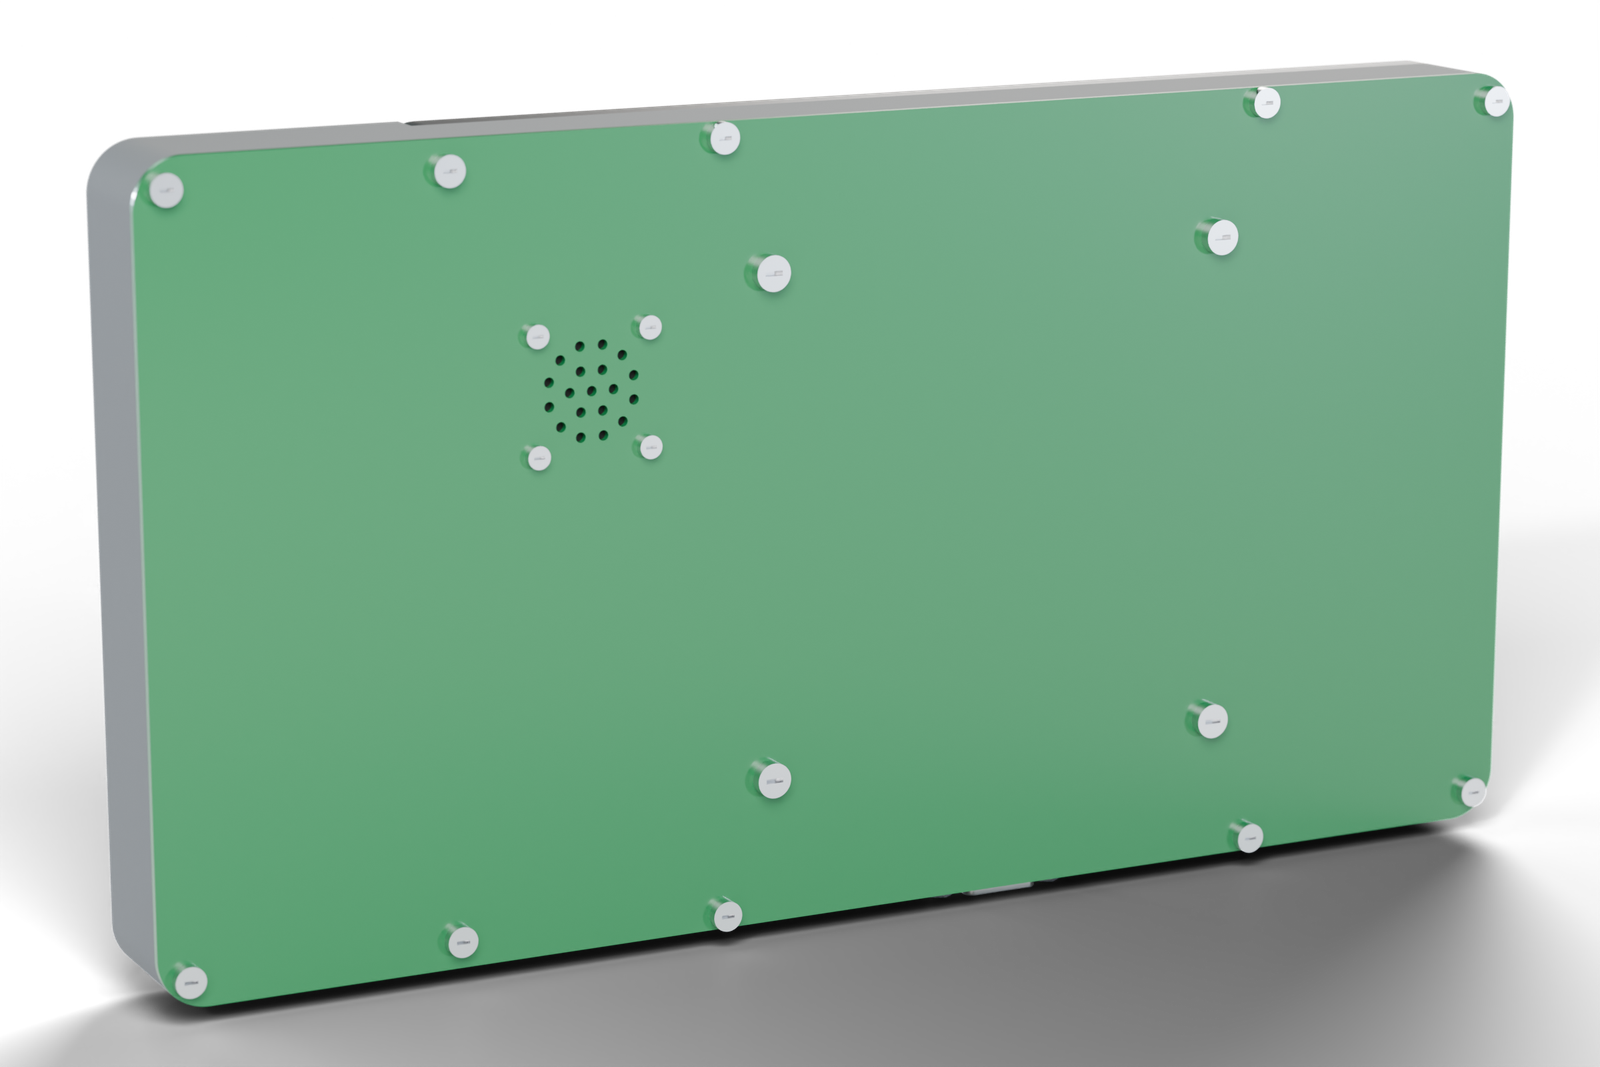
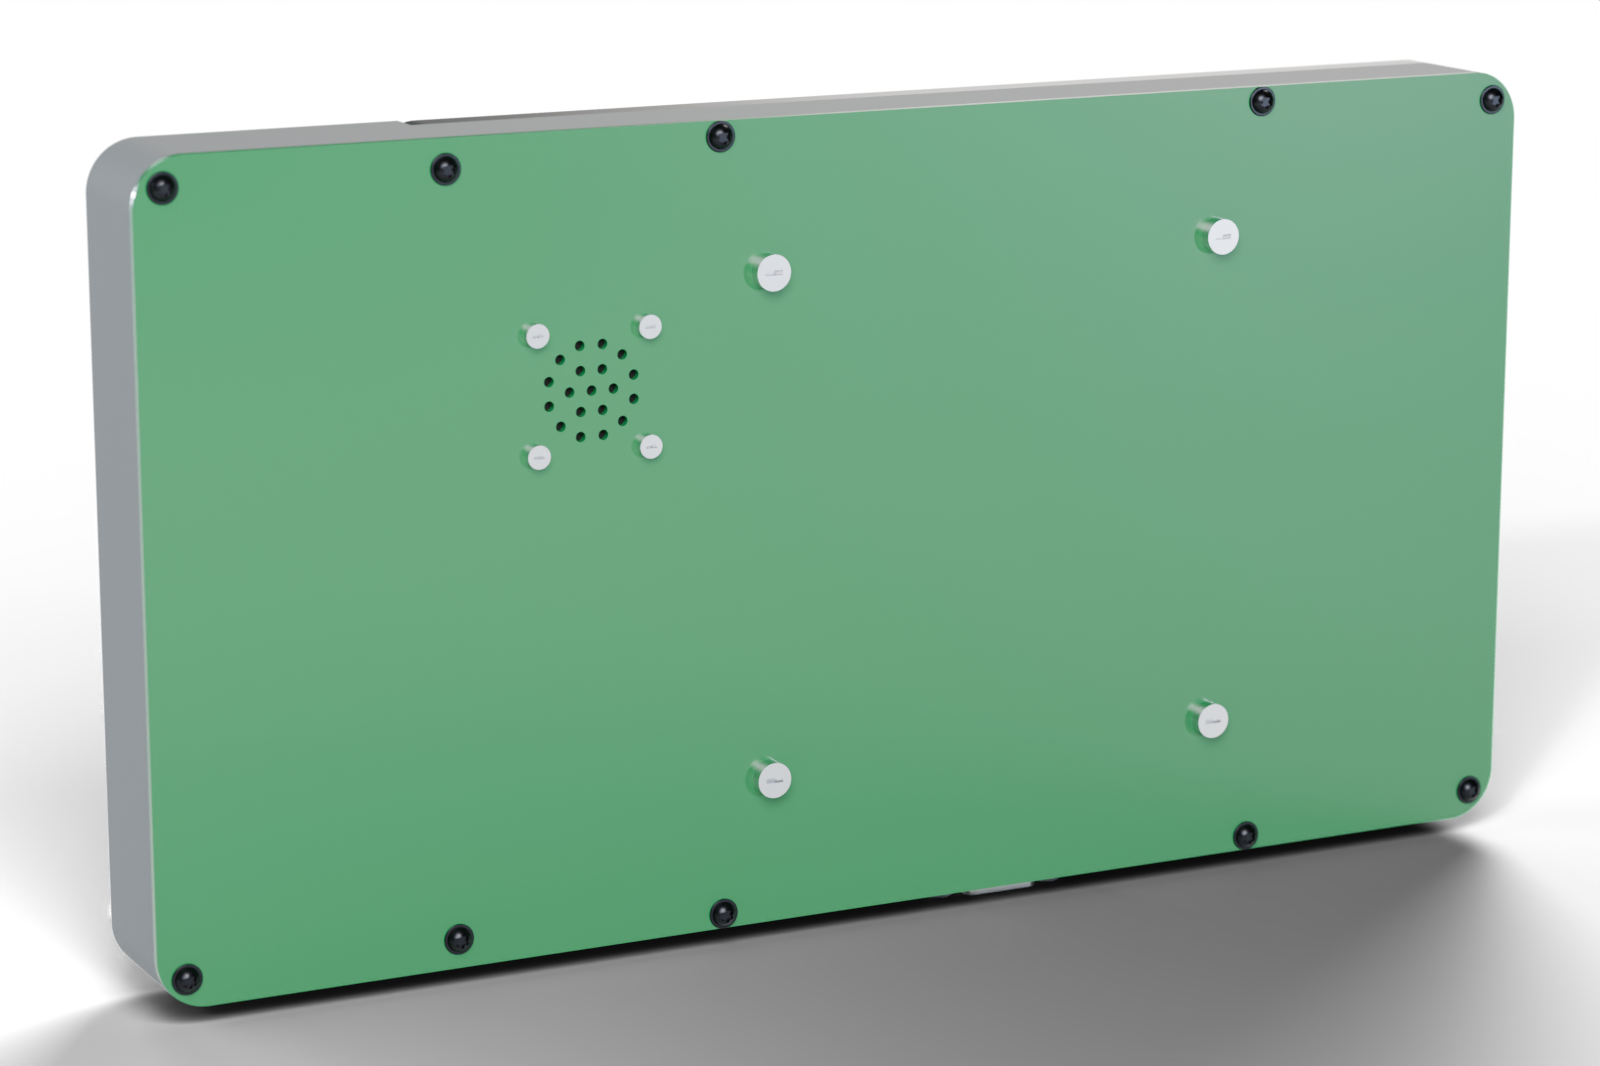
feat(assembly): original Wurth model for the WUEPLAST screws
make_assembly.py uses models/WUEPLAST_Wuerth_4234_3_10.step (Wurth
4234 3 10, black zinc plated) for pos. 8 and 17 and falls back to the
simple screw if the file is missing. Rendering: black zinc material,
back view re-rendered. TODO list updated for the remaining screws.

Claude-Session: https://claude.ai/code/session_014h8cGf3Yf1RexPb88xHHK1

diff --git a/assembly/make_assembly.py b/assembly/make_assembly.py
@@ -64,6 +64,21 @@ try:
         h = h.cut(Part.makeBox(d * 0.9, d * 0.25, 0.6 * k, V(x - d * 0.45, y - d * 0.125, zh - k)))
         return h.fuse(Part.makeCylinder(d / 2 * 0.95, L, V(x, y, zh)))
 
+    WUEPLAST_STEP = os.path.join(MODELS, "WUEPLAST_Wuerth_4234_3_10.step")
+    _wp = []
+
+    def wueplast(x, y, zh):
+        """WUEPLAST WN 1451 3 x 10 (Wurth 4234 3 10), head on the -z side, bearing face at z = zh.
+        Original Wurth model (axis along +x, bearing face at x = 0); simple model if the file is missing."""
+        if not os.path.exists(WUEPLAST_STEP):
+            return screw(x, y, zh, 3.0, 10, 6.0, 2.2)
+        if not _wp:
+            _wp.append(read(WUEPLAST_STEP))
+        w = _wp[0].copy()
+        w.rotate(V(0, 0, 0), V(0, 1, 0), -90)      # +x (towards the tip) -> +z
+        w.translate(V(x, y, zh))
+        return w
+
     def nut(x, y, z0, s, m, d):
         pts = []
         import math
@@ -141,7 +156,7 @@ try:
         add("15", Part.makeCompound([nut(hx, hy, 1.5, 5, 2, 2.5) for hx, hy in spk_holes]), (0.80, 0.80, 0.82), (0, 0, EXP + 105), "15")
         add("14", Part.makeCompound([screw(hx, hy, -1.6, 2.5, 8, 4.5, 1.7) for hx, hy in spk_holes]), (0.80, 0.80, 0.82), (0, 0, EXP - 25), "14")
         bp_holes = [(34.3, 26.4), (265.7, 26.4), (34.3, 173.6), (265.7, 173.6), (90, 23.65), (210, 23.65), (90, 176.35), (210, 176.35)]
-        add("8", Part.makeCompound([screw(fx(a), fy(b), -1.6, 3.0, 10, 6.0, 2.2) for a, b in bp_holes]), (0.80, 0.80, 0.82), (0, 0, EXP - 32), "8")
+        add("8", Part.makeCompound([wueplast(fx(a), fy(b), -1.6) for a, b in bp_holes]), (0.80, 0.80, 0.82), (0, 0, EXP - 32), "8")
         vesa = [(100, 50), (200, 50), (100, 150), (200, 150)]
         add("10", Part.makeCompound([screw(fx(a), fy(b), -1.6, 4.0, 12, 7.0, 2.6) for a, b in vesa]), (0.80, 0.80, 0.82), (0, 0, EXP - 40), "10")
         # CAN board under the display cover, M2 x 6 into the standoffs S1-S4
@@ -170,7 +185,7 @@ try:
             add("16", Part.makeCompound([screw(XK + dx, dy_, ZPCB_KP - 4.0, 2.5, 8, 4.5, 1.7) for dx in (-12, 12) for dy_ in (-70, 70)]),
                 (0.80, 0.80, 0.82), (0, 0, EXF - 45), "16")
             hb = [(319.8, 26.4), (319.8, 173.6)]
-            add("17", Part.makeCompound([screw(fx(a), fy(b), -1.6, 3.0, 10, 6.0, 2.2) for a, b in hb]), (0.80, 0.80, 0.82), (0, 0, EXP - 32), "17")
+            add("17", Part.makeCompound([wueplast(fx(a), fy(b), -1.6) for a, b in hb]), (0.80, 0.80, 0.82), (0, 0, EXP - 32), "17")
         return items
 
     # ------------------------------------------------------------ rendering

diff --git a/assembly/render/render_blender.py b/assembly/render/render_blender.py
@@ -90,14 +90,15 @@ MAT = {
     "brass": principled("Brass", (0.80, 0.62, 0.30), rough=0.3, metal=1.0),
     "steel": principled("Steel", (0.75, 0.75, 0.77), rough=0.28, metal=1.0),
     "nickel": principled("Nickel", (0.70, 0.69, 0.66), rough=0.22, metal=1.0),
+    "blackzinc": principled("BlackZinc", (0.035, 0.035, 0.04), rough=0.35, metal=0.9),   # Wurth "schw. vz."
     "mask": principled("SolderMask", (0.02, 0.18, 0.06), rough=0.35, coat=0.5),
     "black": principled("BlackPlastic", (0.02, 0.02, 0.02), rough=0.55),
     "plexi": principled("Plexiglass", (0.95, 0.97, 1.0), rough=0.02, alpha_tr=1.0, ior=1.49),
     "foil": image_material("Foil", os.path.join(TEX, "foil.png"), rough=0.38, coat=0.25),
     "screen": image_material("Screen", os.path.join(TEX, "screen.png"), emission=1.4, rough=0.08, coat=1.0),
 }
-PART_MAT = {"C": "frame", "3": "nickel", "7": "steel", "9": "steel", "8": "steel", "10": "steel",
-            "14": "steel", "15": "steel", "16": "steel", "17": "steel", "1": "steel",
+PART_MAT = {"C": "frame", "3": "nickel", "7": "steel", "9": "steel", "8": "blackzinc", "10": "steel",
+            "14": "steel", "15": "steel", "16": "steel", "17": "blackzinc", "1": "steel",
             "13": "black", "B": "mask", "D": "mask", "E": "mask", "19": "plexi", "19f": "foil"}
 
 

diff --git a/assembly/render/README.md b/assembly/render/README.md
@@ -28,7 +28,7 @@ Blender 5.3, FreeCAD 1.1, Python with PyMuPDF and Pillow.
 ## Notes
 
 - Materials: frame MJF PA12 (matt grey with a fine grain), black cover glass, foil satin
-  with the print, back plate and PCBs green solder mask, screws steel.
+  with the print, back plate and PCBs green solder mask, WÜPLAST screws black zinc, other screws steel.
 - The foil is modelled flat. In reality it forms a dome over each key (about 0.4 mm), so the
   keypad PCB is moved back by 0.6 mm in the picture, otherwise the actuators would show through.
 - The display is the envelope model (`../models/JC8012P4A1_envelope.step`); the active area
@@ -37,6 +37,7 @@ Blender 5.3, FreeCAD 1.1, Python with PyMuPDF and Pillow.
 
 ## TODO
 
-- Screws: replace the simple screw models (`screw()` in `../make_assembly.py`) with the
-  original 3D models from Würth, at least the WÜPLAST WN 1451 3 × 10 (art. 4234 3 10) of the
-  back plate, and export them like the other parts.
+- Screws: the WÜPLAST WN 1451 3 × 10 (Würth 4234 3 10, black zinc plated, pos. 8 and 17) use
+  the original Würth model `../models/WUEPLAST_Wuerth_4234_3_10.step` (simple model if the
+  file is missing). Still simple models: M2 × 6 (pos. 1), M2.5 (pos. 9, 14, 16), M4 × 12
+  (pos. 10) and the M2.5 nuts (pos. 15); replace them with Würth models as well.

diff --git a/assembly/README.md b/assembly/README.md
@@ -35,7 +35,8 @@ main parts: A display, B CAN board, C frame, D back plate, E keypad PCB.
 - `models/D-Sub_Wurth_618009227221.step`, `models/Jackpost_Wurth_94510000.step`:
   Würth Elektronik models (see `Wurth_Disclaimer_READ_ME.txt`).
 - Screws, nuts, speaker, plexiglass and foil are simple models made in the script.
-  TODO: use the original Würth 3D models for the screws (WÜPLAST 4234 3 10 first),
+  The WÜPLAST 3 × 10 (pos. 8, 17) use the original Würth model
+  `models/WUEPLAST_Wuerth_4234_3_10.step`. TODO: Würth models for the other screws,
   see [render/README.md](render/README.md).
 
 ## Simplifications
